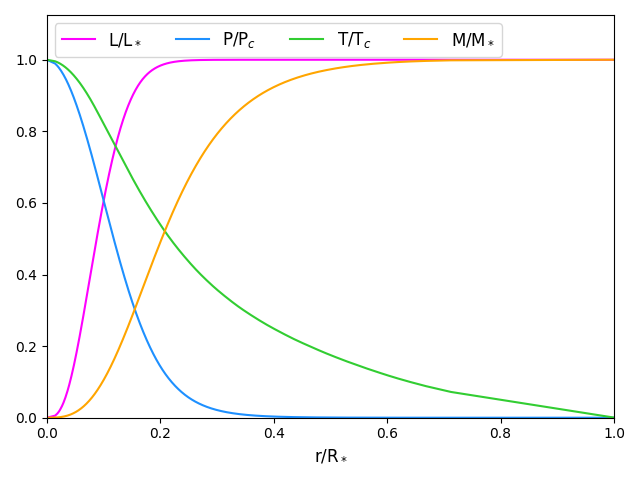
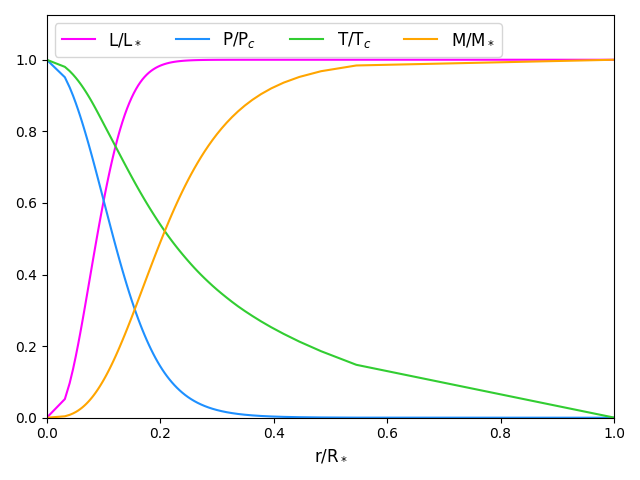
trying to trouble shoot an issue with opacities
NOT CONVERGING

diff --git a/supportfiles/stellarstructuretools.py b/supportfiles/stellarstructuretools.py
@@ -46,7 +46,7 @@ def density(P, T):
     returns: rho (float): density (g cm^-3)
     """
     rho = ((P-(a*(T**4)/3))*config.mu)/(Na*k*T) #from 3.104
-    return rho
+    return np.where(rho<=0, 1e-1000, rho)
 
 def pressure_opacity(rho, T, R):
     """
@@ -97,7 +97,7 @@ def center_vals(m, P, T):
             R (float): radius of a sphere enclosing m (cm)
     """
     rho_c = density(P, T)
-    if rho_c < 0:
+    if rho_c <= 0:
         return np.array([np.nan, np.nan, np.nan, np.nan])
     
     r = (((3*m)/(4*np.pi*rho_c))**(1/3))
@@ -106,19 +106,20 @@ def center_vals(m, P, T):
     L = energy_gen * (m)
     
     try:
+        print(rho_c, T)
         kappa = 10**(config.interp(np.log10(rho_c), np.log10(T)))
     except:
-        print("integrating out of bounds")
+        print("Failed to calculate kappa. Are you trying to interpolate out of bounds?")
         return np.array([np.nan, np.nan, np.nan, np.nan])
 
     _, Delta_ad, Delta = Delta_finder(m, L, P, T, r, kappa)
     if Delta > Delta_ad:
         T = np.exp((((np.pi/6)**(1/3))*G*((Delta*(rho_c**(4/3)))/P)
-            *(m**(2/3)))+np.log(T))
+            *(m**(2/3)))+np.log(T)) #CONVECTIVE
     else:
         T = (((-1/(2*a*c))*((3/(4*np.pi))**(2/3))
               *kappa*energy_gen*(rho_c**(4/3))*((m)**(2/3)))
-              +T**4)**0.25
+              +T**4)**0.25 #RADIATIVE
     return np.array([L, P, T, r])
 
 def surface_vals(m, L, R):
@@ -173,7 +174,7 @@ def Delta_finder(m, L, P, T, r, kappa, return_Delta_rad = False):
     """
     #print(m, L, P, T, r, kappa)
     Delta_rad = (3/(16*np.pi*a*c)) * ((P*kappa)/(T**4)) * (L/(G*m))
-    Delta = np.where(Delta_rad <= config.Delta_ad, Delta_rad, config.Delta_ad)
+    Delta = np.where(Delta_rad > config.Delta_ad, Delta_rad, config.Delta_ad)
     dTdm = -((G*m*T)/(4*np.pi*(r**4)*P))*Delta
     #if Delta_rad > config.Delta_ad:
     #    Delta = config.Delta_ad

diff --git a/supportfiles/integrationandsolutiontools.py b/supportfiles/integrationandsolutiontools.py
@@ -7,6 +7,9 @@ exec(open("./supportfiles/constants.py").read())
 
 def shootf(guess, mc = 1e-12, mf=0.2, ms = 0.9999, steps=1e6):
     """
+    Implementation of the shooting method. Integrates from the center to a fitting point and from the exterior to the 
+    same fitting point. Returns a vector of modified residuals describing the disagreement at the fitting point.
+
     inputs: guess (np.array): with
                 L (float): luminosity emitted from a sphere enclosing m (ergs s^-1)
                 P (float): pressure at the surface of a sphere enclosing m (dyne cm^-2)
@@ -36,11 +39,13 @@ def shootf(guess, mc = 1e-12, mf=0.2, ms = 0.9999, steps=1e6):
         return [np.inf, np.inf, np.inf, np.inf]
 
     modresidual = (solc.y[:, -1] - sols.y[:, -1])/guess
-    print(modresidual)
+    print(solc.y[0, -1], sols.y[0, -1], modresidual)
     return modresidual
 
 def solution(guess, mc = 1e-12, mf=0.2, ms = 0.9999, steps=1e6, returnedsteps = 1e2):
     """
+
+
     inputs: guess (np.array): with
                 L (float): luminosity emitted from a sphere enclosing m (ergs s^-1)
                 P (float): pressure at the surface of a sphere enclosing m (dyne cm^-2)
@@ -57,7 +62,11 @@ def solution(guess, mc = 1e-12, mf=0.2, ms = 0.9999, steps=1e6, returnedsteps = 
              Psol (array): log pressure solution array (log dyne cm^-2)
              Tsol (array): log temperature solution array (log K)
              Rsol (array): log radius solution array (log cm)
-             Esol, kappasol, Deltaadsol, Deltasol, convectivesol
+             Esol
+             kappasol
+             Deltaadsol
+             Deltasol
+             convectivesol
     """
     L, P, T, R = guess
 

diff --git a/main.py b/main.py
@@ -35,9 +35,8 @@ rho_const = (3*config.MASS)/(4*np.pi*(Rt**3))
 Pc = (3*G*(config.MASS**2))/(8*np.pi*(Rt**4))
 Tc = (G*config.MASS*config.mu)/(2*Rt*Na*k) 
 
-#FUDGEFACTORS = np.array([0.75, 1e2, 3, 1])
-#FUDGEFACTORS = np.array([2.5, 100, 2, 1]) 
-FUDGEFACTORS = np.array([1, 1.1, 1, 1]) #constant density model will lowball pressure
+print(Lt)
+FUDGEFACTORS = np.array([1, 1, 1, 1]) #constant density model will lowball pressure, so bumping that up a bit
 sol = root(shootf, np.array([Lt, Pc, Tc, Rt])*FUDGEFACTORS)
 print(sol)
 
@@ -54,13 +53,12 @@ data["Deltaad"] = Deltaadsol
 data["Deltarad"] = Deltaradsol
 data["Delta"] = Deltasol
 data["nature"] = nature
+
+#data.round(decimals={"M":-28, "L":-20, "P":-2, "T":-1})
+#data.pprint()
+
 #ascii.write(data, "{}Ms_star.ecsv".format(config.savename), overwrite=True)
 tablemaker = cdspyreadme.CDSTablesMaker()
-tablemaker.addTable(data, name="table1")
-
-# add an other local table (in VOTable) 
-#table2 = Table.read("table.vot")
-#tablemaker.addTable(table2, name="table2")
-
+tablemaker.addTable(data, name="results/{}Ms_star.txt".format(config.savename))
 tablemaker.writeCDSTables()
 tablemaker.makeReadMe()

diff --git a/quickplots.py b/quickplots.py
@@ -44,15 +44,15 @@ plt.close()
 figsize=(10,10)
 plt.plot(table["M"]/table["M"][-1], table["Deltaad"], label="$\Delta_{ad}$", c="dodgerblue")
 plt.plot(table["M"]/table["M"][-1], table["Deltarad"], label="$\Delta_{rad}$", c = "magenta")
-radiative = np.where(table["Deltarad"] <= table["Deltaad"], True, False)
-convective = np.where(table["Deltarad"] > table["Deltaad"])
+radiative = np.where(table["Deltarad"] < table["Deltaad"], True, False)
+convective = np.where(table["Deltarad"] >= table["Deltaad"])
 radiativemasses = (table["M"]/table["M"][-1])[radiative]
 convectivemasses = (table["M"]/table["M"][-1])[convective]
 if radiativemasses[0] != np.min(radiativemasses)\
 	or radiativemasses[-1] != np.max(radiativemasses)\
 	or convectivemasses[0] != np.min(convectivemasses)\
 	or convectivemasses[-1] != np.max(convectivemasses):
-		print("Can't do fill between because the situation is more cmmplicated "
+		print("Can't do fill between plot because the situation is more commplicated "
 			  +"that one convective zone and one radiative zone.")
 else:
 	ylim = [0, 1]
